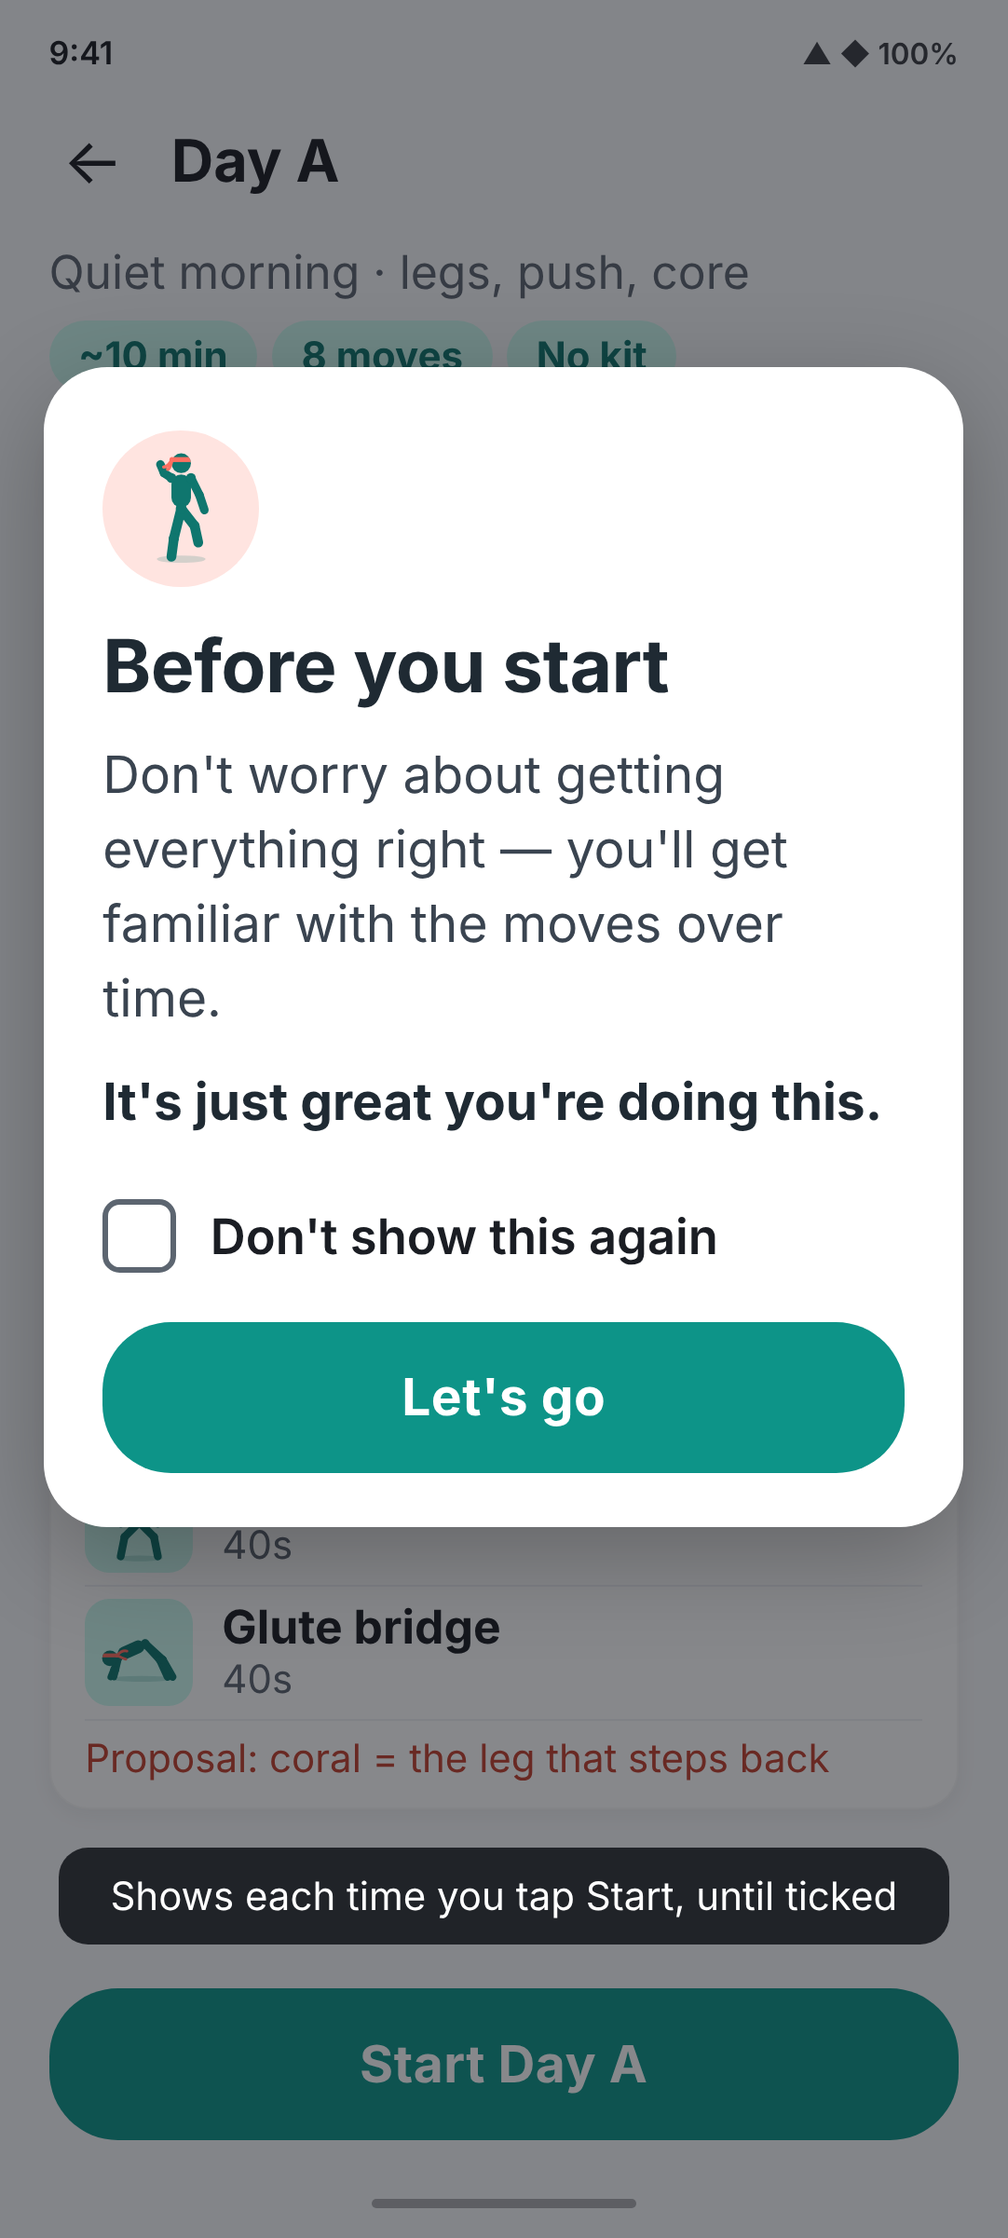
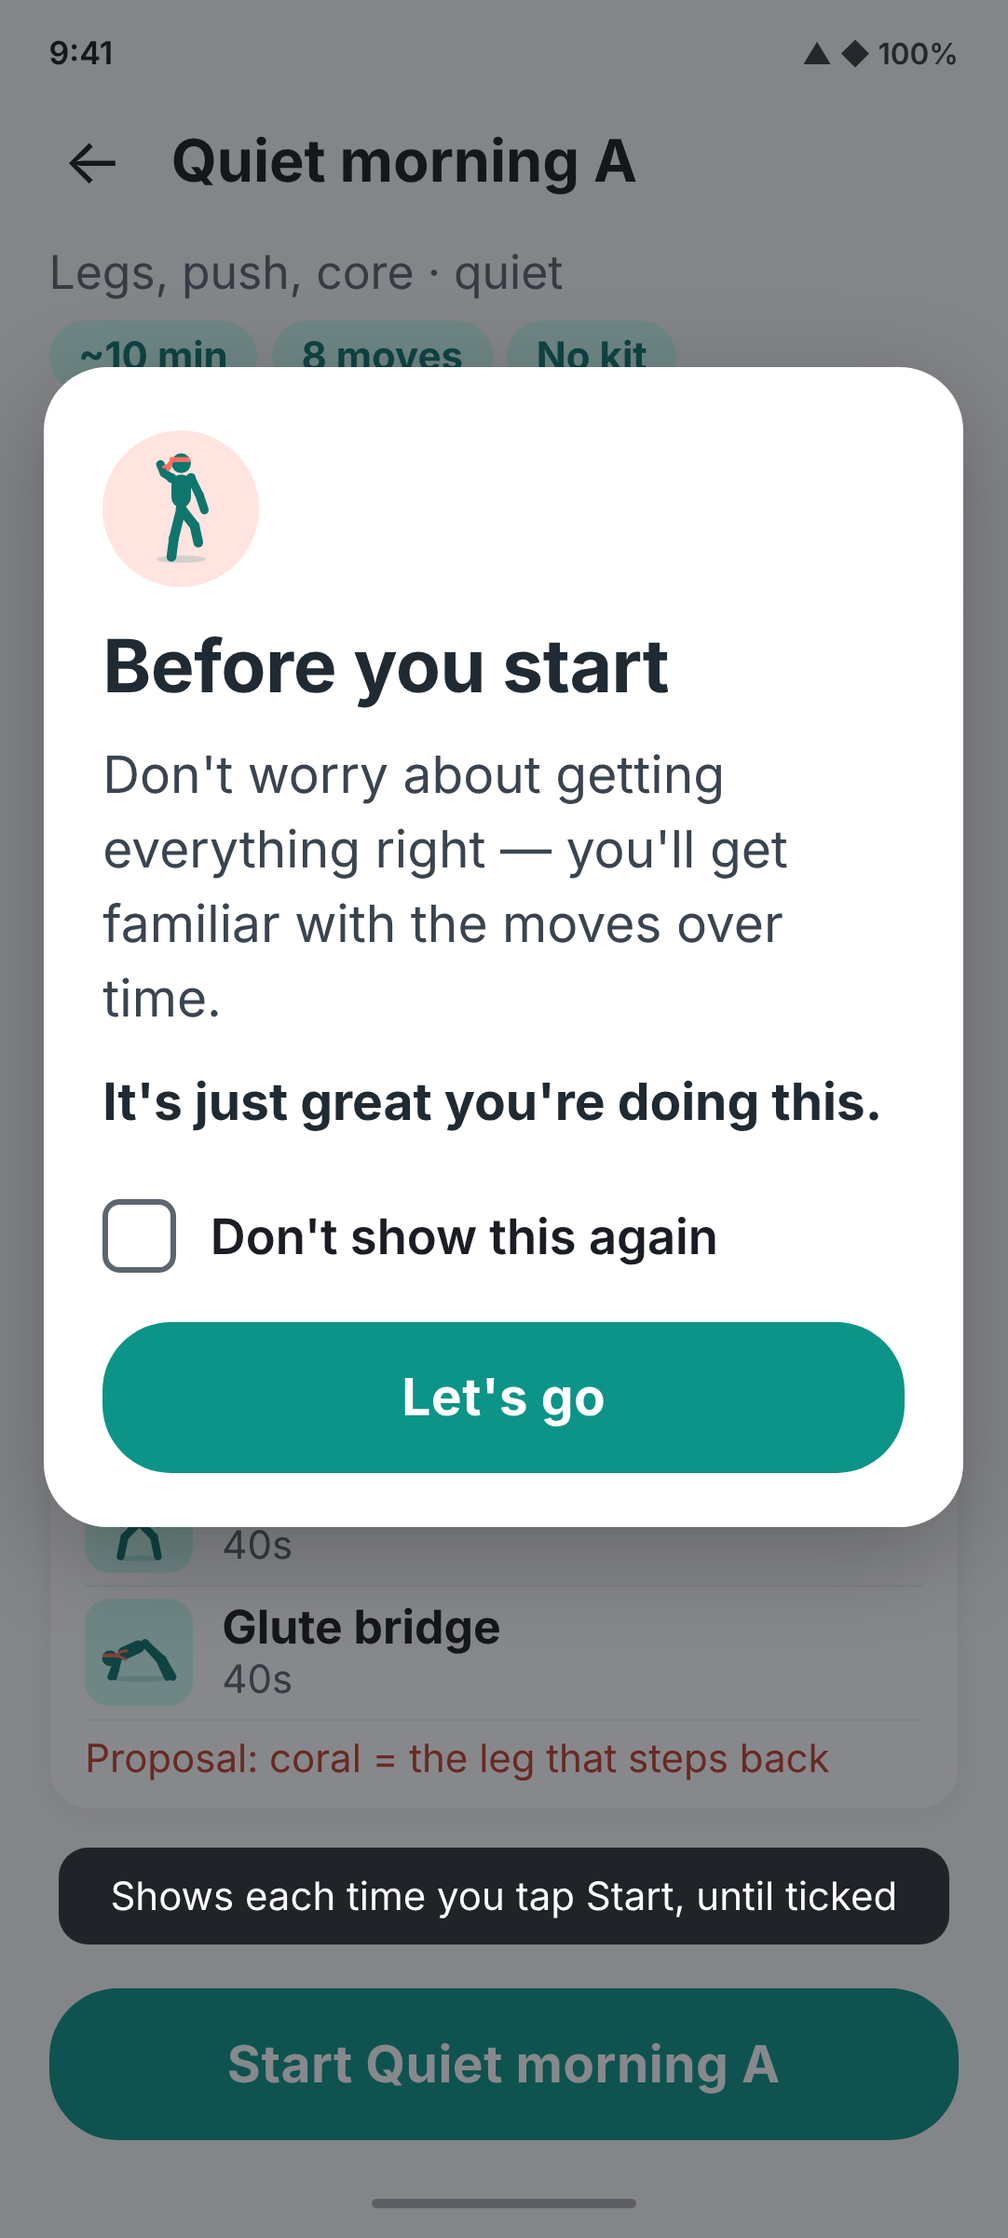
Day A mockups round 6: routine cards with A/B, recency sort
Home keeps the app's current pick-A-or-B pattern, now with one card per
routine sorted by most recent use (the returning-user state shows Lunch
on top). Day A/B is renamed to Quiet morning A/B, and the sort rule is
written up in the README.

diff --git a/docs/mockups/dayA-feedback/src/d-first-workout-card.html b/docs/mockups/dayA-feedback/src/d-first-workout-card.html
@@ -1,1 +1,1 @@
-<!doctype html><html><head><meta charset="utf-8"><link rel="stylesheet" href="../../src/shared.css"><link rel="stylesheet" href="r3.css"></head><body><div class="phone"><div class="status-bar"><span>9:41</span><span class="status-icons">▲ ◆ 100%</span></div><div class="topbar"><div class="icon-btn">←</div><div class="title">Day A</div></div><div class="content"><div><div class="sub2">Quiet morning · legs, push, core</div><div class="row" style="margin-top:8px;gap:6px"><span class="chip2">~10 min</span><span class="chip2">8 moves</span><span class="chip2">No kit</span></div></div><div class="card" style="padding:12px 14px"><div class="wu">Warm-up · 4 moves ▸<span>2 min · no rests</span></div></div><div class="card" style="padding:10px 14px"><div class="lbl2">Work · 40s each · 20s rest</div><div class="it "><div class="th"><img class="" src="fig/squat.svg"></div><div><div class="nm">Squat</div><div class="mt">40s</div></div></div><div class="it "><div class="th"><img class="" src="fig/pushup.svg"></div><div><div class="nm">Push-up</div><div class="mt">40s</div></div></div><div class="it hl"><div class="th"><img class="" src="fig/reverseLunge-coral-leg.svg"></div><div><div class="nm">Reverse lunge (right)<span class="side-tag">1</span></div><div class="mt">right leg steps back</div></div></div><div class="it "><div class="th"><img class="" src="fig/plank.svg"></div><div><div class="nm">Plank</div><div class="mt">40s</div></div></div><div class="it hl"><div class="th"><img class="mirror" src="fig/reverseLunge-coral-leg.svg"></div><div><div class="nm">Reverse lunge (left)<span class="side-tag">2</span></div><div class="mt">left leg steps back</div></div></div><div class="it "><div class="th"><img class="" src="fig/pushup.svg"></div><div><div class="nm">Push-up</div><div class="mt">40s</div></div></div><div class="it "><div class="th"><img class="" src="fig/squat.svg"></div><div><div class="nm">Squat</div><div class="mt">40s</div></div></div><div class="it "><div class="th"><img class="" src="fig/gluteBridge.svg"></div><div><div class="nm">Glute bridge</div><div class="mt">40s</div></div></div><div class="mt" style="margin-top:6px;color:#C2412F">Proposal: coral = the leg that steps back</div></div><div class="spacer"></div><div class="btn">Start Day A</div></div><div class="nav-bar"><div class="nav-pill"></div></div><div class="scrim"></div><div class="dialog"><div class="badge"><img src="fig/march.svg" style="width:50px;height:50px"></div><h2>Before you start</h2><p>Don't worry about getting everything right — you'll get familiar with the moves over time.</p><p><b style="color:#1F2A33">It's just great you're doing this.</b></p><div class="check"><div class="box"></div>Don't show this again</div><div class="btn">Let's go</div></div><div class="note">Shows each time you tap Start, until ticked</div></div></body></html>
+<!doctype html><html><head><meta charset="utf-8"><link rel="stylesheet" href="../../src/shared.css"><link rel="stylesheet" href="r3.css"></head><body><div class="phone"><div class="status-bar"><span>9:41</span><span class="status-icons">▲ ◆ 100%</span></div><div class="topbar"><div class="icon-btn">←</div><div class="title">Quiet morning A</div></div><div class="content"><div><div class="sub2">Legs, push, core · quiet</div><div class="row" style="margin-top:8px;gap:6px"><span class="chip2">~10 min</span><span class="chip2">8 moves</span><span class="chip2">No kit</span></div></div><div class="card" style="padding:12px 14px"><div class="wu">Warm-up · 4 moves ▸<span>2 min · no rests</span></div></div><div class="card" style="padding:10px 14px"><div class="lbl2">Work · 40s each · 20s rest</div><div class="it "><div class="th"><img class="" src="fig/squat.svg"></div><div><div class="nm">Squat</div><div class="mt">40s</div></div></div><div class="it "><div class="th"><img class="" src="fig/pushup.svg"></div><div><div class="nm">Push-up</div><div class="mt">40s</div></div></div><div class="it hl"><div class="th"><img class="" src="fig/reverseLunge-coral-leg.svg"></div><div><div class="nm">Reverse lunge (right)<span class="side-tag">1</span></div><div class="mt">right leg steps back</div></div></div><div class="it "><div class="th"><img class="" src="fig/plank.svg"></div><div><div class="nm">Plank</div><div class="mt">40s</div></div></div><div class="it hl"><div class="th"><img class="mirror" src="fig/reverseLunge-coral-leg.svg"></div><div><div class="nm">Reverse lunge (left)<span class="side-tag">2</span></div><div class="mt">left leg steps back</div></div></div><div class="it "><div class="th"><img class="" src="fig/pushup.svg"></div><div><div class="nm">Push-up</div><div class="mt">40s</div></div></div><div class="it "><div class="th"><img class="" src="fig/squat.svg"></div><div><div class="nm">Squat</div><div class="mt">40s</div></div></div><div class="it "><div class="th"><img class="" src="fig/gluteBridge.svg"></div><div><div class="nm">Glute bridge</div><div class="mt">40s</div></div></div><div class="mt" style="margin-top:6px;color:#C2412F">Proposal: coral = the leg that steps back</div></div><div class="spacer"></div><div class="btn">Start Quiet morning A</div></div><div class="nav-bar"><div class="nav-pill"></div></div><div class="scrim"></div><div class="dialog"><div class="badge"><img src="fig/march.svg" style="width:50px;height:50px"></div><h2>Before you start</h2><p>Don't worry about getting everything right — you'll get familiar with the moves over time.</p><p><b style="color:#1F2A33">It's just great you're doing this.</b></p><div class="check"><div class="box"></div>Don't show this again</div><div class="btn">Let's go</div></div><div class="note">Shows each time you tap Start, until ticked</div></div></body></html>

diff --git a/docs/mockups/dayA-feedback/src/a-dayA-list.html b/docs/mockups/dayA-feedback/src/a-dayA-list.html
@@ -1,1 +1,1 @@
-<!doctype html><html><head><meta charset="utf-8"><link rel="stylesheet" href="../../src/shared.css"><link rel="stylesheet" href="r3.css"></head><body><div class="phone"><div class="status-bar"><span>9:41</span><span class="status-icons">▲ ◆ 100%</span></div><div class="topbar"><div class="icon-btn">←</div><div class="title">Day A</div></div><div class="content"><div><div class="sub2">Quiet morning · legs, push, core</div><div class="row" style="margin-top:8px;gap:6px"><span class="chip2">~10 min</span><span class="chip2">8 moves</span><span class="chip2">No kit</span></div></div><div class="card" style="padding:12px 14px"><div class="wu">Warm-up · 4 moves ▸<span>2 min · no rests</span></div></div><div class="card" style="padding:10px 14px"><div class="lbl2">Work · 40s each · 20s rest</div><div class="it "><div class="th"><img class="" src="fig/squat.svg"></div><div><div class="nm">Squat</div><div class="mt">40s</div></div></div><div class="it "><div class="th"><img class="" src="fig/pushup.svg"></div><div><div class="nm">Push-up</div><div class="mt">40s</div></div></div><div class="it hl"><div class="th"><img class="" src="fig/reverseLunge-coral-leg.svg"></div><div><div class="nm">Reverse lunge (right)<span class="side-tag">1</span></div><div class="mt">right leg steps back</div></div></div><div class="it "><div class="th"><img class="" src="fig/plank.svg"></div><div><div class="nm">Plank</div><div class="mt">40s</div></div></div><div class="it hl"><div class="th"><img class="mirror" src="fig/reverseLunge-coral-leg.svg"></div><div><div class="nm">Reverse lunge (left)<span class="side-tag">2</span></div><div class="mt">left leg steps back</div></div></div><div class="it "><div class="th"><img class="" src="fig/pushup.svg"></div><div><div class="nm">Push-up</div><div class="mt">40s</div></div></div><div class="it "><div class="th"><img class="" src="fig/squat.svg"></div><div><div class="nm">Squat</div><div class="mt">40s</div></div></div><div class="it "><div class="th"><img class="" src="fig/gluteBridge.svg"></div><div><div class="nm">Glute bridge</div><div class="mt">40s</div></div></div><div class="mt" style="margin-top:6px;color:#C2412F">Proposal: coral = the leg that steps back</div></div><div class="spacer"></div><div class="btn">Start Day A</div></div><div class="nav-bar"><div class="nav-pill"></div></div></div></body></html>
+<!doctype html><html><head><meta charset="utf-8"><link rel="stylesheet" href="../../src/shared.css"><link rel="stylesheet" href="r3.css"></head><body><div class="phone"><div class="status-bar"><span>9:41</span><span class="status-icons">▲ ◆ 100%</span></div><div class="topbar"><div class="icon-btn">←</div><div class="title">Quiet morning A</div></div><div class="content"><div><div class="sub2">Legs, push, core · quiet</div><div class="row" style="margin-top:8px;gap:6px"><span class="chip2">~10 min</span><span class="chip2">8 moves</span><span class="chip2">No kit</span></div></div><div class="card" style="padding:12px 14px"><div class="wu">Warm-up · 4 moves ▸<span>2 min · no rests</span></div></div><div class="card" style="padding:10px 14px"><div class="lbl2">Work · 40s each · 20s rest</div><div class="it "><div class="th"><img class="" src="fig/squat.svg"></div><div><div class="nm">Squat</div><div class="mt">40s</div></div></div><div class="it "><div class="th"><img class="" src="fig/pushup.svg"></div><div><div class="nm">Push-up</div><div class="mt">40s</div></div></div><div class="it hl"><div class="th"><img class="" src="fig/reverseLunge-coral-leg.svg"></div><div><div class="nm">Reverse lunge (right)<span class="side-tag">1</span></div><div class="mt">right leg steps back</div></div></div><div class="it "><div class="th"><img class="" src="fig/plank.svg"></div><div><div class="nm">Plank</div><div class="mt">40s</div></div></div><div class="it hl"><div class="th"><img class="mirror" src="fig/reverseLunge-coral-leg.svg"></div><div><div class="nm">Reverse lunge (left)<span class="side-tag">2</span></div><div class="mt">left leg steps back</div></div></div><div class="it "><div class="th"><img class="" src="fig/pushup.svg"></div><div><div class="nm">Push-up</div><div class="mt">40s</div></div></div><div class="it "><div class="th"><img class="" src="fig/squat.svg"></div><div><div class="nm">Squat</div><div class="mt">40s</div></div></div><div class="it "><div class="th"><img class="" src="fig/gluteBridge.svg"></div><div><div class="nm">Glute bridge</div><div class="mt">40s</div></div></div><div class="mt" style="margin-top:6px;color:#C2412F">Proposal: coral = the leg that steps back</div></div><div class="spacer"></div><div class="btn">Start Quiet morning A</div></div><div class="nav-bar"><div class="nav-pill"></div></div></div></body></html>

diff --git a/docs/mockups/dayA-feedback/src/g-home-picker.html b/docs/mockups/dayA-feedback/src/g-home-picker.html
@@ -1,1 +1,1 @@
-<!doctype html><html><head><meta charset="utf-8"><link rel="stylesheet" href="../../src/shared.css"><link rel="stylesheet" href="r3.css"></head><body><div class="phone"><div class="status-bar"><span>9:41</span><span class="status-icons">▲ ◆ 100%</span></div><div class="content" style="padding-top:14px"><div class="greet">G'day! Pick a workout</div><div class="grp"><h3>Morning</h3><span>quiet, no jumping</span></div><div class="rt"><div class="th"><img src="fig/squat.svg"></div><div><div class="nm">Quiet morning A</div><div class="tg"><span>~10 min</span><span>legs · push · core</span></div></div><span class="chev">›</span></div><div class="rt"><div class="th"><img src="fig/splitSquat.svg"></div><div><div class="nm">Quiet morning B</div><div class="tg"><span>~10 min</span><span>single-leg · back · core</span></div></div><span class="chev">›</span></div><div class="grp"><h3>Lunch</h3><span>standing only · low sweat</span></div><div class="rt"><div class="th"><img src="fig/inclinePushup.svg"></div><div><div class="nm">Lunch A</div><div class="tg"><span>~10 min</span><span>work clothes friendly</span></div></div><span class="chev">›</span></div><div class="rt"><div class="th"><img src="fig/wallSit.svg"></div><div><div class="nm">Lunch B</div><div class="tg"><span>~10 min</span><span>work clothes friendly</span></div></div><span class="chev">›</span></div><div class="grp"><h3>After work</h3><span>more energy</span></div><div class="rt"><div class="th"><img src="fig/pushup.svg"></div><div><div class="nm">After work A</div><div class="tg"><span>~15 min</span><span>proper sweat</span></div></div><span class="chev">›</span></div><div class="rt"><div class="th"><img src="fig/sidePlank.svg"></div><div><div class="nm">After work B</div><div class="tg"><span>~15 min</span><span>proper sweat</span></div></div><span class="chev">›</span></div></div><div class="nav-bar"><div class="nav-pill"></div></div></div></body></html>
+<!doctype html><html><head><meta charset="utf-8"><link rel="stylesheet" href="../../src/shared.css"><link rel="stylesheet" href="r3.css"></head><body><div class="phone"><div class="status-bar"><span>9:41</span><span class="status-icons">▲ ◆ 100%</span></div><div class="content" style="padding-top:12px;gap:10px!important"><div class="greet">G'day! Ready for a quick one?</div><div class="rc top"><div class="rc-h"><span class="nm">Lunch</span><span class="usual">Your usual</span></div><div class="rc-t"><span>~10 min</span><span>standing only</span><span>low sweat</span></div><div class="opt"><div class="th"><img src="fig/inclinePushup.svg"></div><div><div class="l">A</div><div class="f">squat · desk push-up · lunges</div></div><span class="last">last done<br>yesterday</span><span class="chev">›</span></div><div class="opt"><div class="th"><img src="fig/wallSit.svg"></div><div><div class="l">B</div><div class="f">split squats · wall sit</div></div><span class="sug">Up next</span><span class="chev">›</span></div></div><div class="rc"><div class="rc-h"><span class="nm">Quiet morning</span></div><div class="rc-t"><span>~10 min</span><span>no jumping</span></div><div class="opt"><div class="th"><img src="fig/squat.svg"></div><div><div class="l">A</div><div class="f">legs · push · core</div></div><span class="last">3 days ago</span><span class="chev">›</span></div><div class="opt"><div class="th"><img src="fig/splitSquat.svg"></div><div><div class="l">B</div><div class="f">single-leg · back · core</div></div><span class="chev">›</span></div></div><div class="rc"><div class="rc-h"><span class="nm">After work</span></div><div class="rc-t"><span>~15 min</span><span>proper sweat</span></div><div class="opt"><div class="th"><img src="fig/pushup.svg"></div><div><div class="l">A</div><div class="f">lunges · push-ups · core</div></div><span class="chev">›</span></div><div class="opt"><div class="th"><img src="fig/sidePlank.svg"></div><div><div class="l">B</div><div class="f">side planks · back · core</div></div><span class="chev">›</span></div></div><div class="inset2"><b>Sorting:</b> most recent routine first. On first launch the order is Quiet morning, Lunch, After work.</div></div><div class="nav-bar"><div class="nav-pill"></div></div></div></body></html>

diff --git a/docs/mockups/dayA-feedback/src/f-workout-done.html b/docs/mockups/dayA-feedback/src/f-workout-done.html
@@ -1,1 +1,1 @@
-<!doctype html><html><head><meta charset="utf-8"><link rel="stylesheet" href="../../src/shared.css"><link rel="stylesheet" href="r3.css"></head><body><div class="phone"><div class="status-bar"><span>9:41</span><span class="status-icons">▲ ◆ 100%</span></div><div class="topbar"><div class="icon-btn">✕</div><div class="spacer"></div></div><div class="content"><div class="done-hero"><div class="circ"><img src="fig/armCircles.svg"></div><div class="done-big">Nice one!</div><div class="done-sub">Quiet morning A done.<br>Great to see you moving.</div></div><div class="stats"><span class="stat">10 min</span><span class="stat">8 moves</span><span class="stat">4 warm-ups</span></div><div class="spacer"></div><div class="sugg"><div class="q">Got more time?</div><div class="t">Why not start <b>Quiet morning B</b>? About 10 more minutes.</div><div class="btn">Start Quiet morning B</div></div><div class="btn2">Done for today</div><div class="anno">Finishing B suggests A instead</div></div><div class="nav-bar"><div class="nav-pill"></div></div></div></body></html>
+<!doctype html><html><head><meta charset="utf-8"><link rel="stylesheet" href="../../src/shared.css"><link rel="stylesheet" href="r3.css"></head><body><div class="phone"><div class="status-bar"><span>9:41</span><span class="status-icons">▲ ◆ 100%</span></div><div class="topbar"><div class="icon-btn">✕</div><div class="spacer"></div></div><div class="content"><div class="done-hero"><div class="circ"><img src="fig/armCircles.svg"></div><div class="done-big">Nice one!</div><div class="done-sub">Quiet morning A done.<br>Great to see you moving.</div></div><div class="stats"><span class="stat">10 min</span><span class="stat">8 moves</span><span class="stat">4 warm-ups</span></div><div class="spacer"></div><div class="sugg"><div class="q">Got more time?</div><div class="t">Why not start <b>Quiet morning B</b>? About 10 more minutes.</div><div class="btn">Start Quiet morning B</div></div><div class="btn2">Done for today</div><div class="anno">Finishing B suggests A. Same for Lunch and After work</div></div><div class="nav-bar"><div class="nav-pill"></div></div></div></body></html>

diff --git a/docs/mockups/dayA-feedback/src/r3.css b/docs/mockups/dayA-feedback/src/r3.css
@@ -93,3 +93,20 @@
 .rt .tg{display:flex;gap:6px;margin-top:3px;flex-wrap:wrap}
 .rt .tg span{font-size:16px;font-weight:600;color:var(--accent-dark);background:var(--accent-soft);padding:1px 8px;border-radius:999px}
 .rt .chev{margin-left:auto;font-size:26px;color:var(--text-3)}
+/* round 6: routine cards with A/B choice */
+.rc{background:#fff;border-radius:20px;padding:12px 14px;box-shadow:var(--shadow);flex-shrink:0}
+.rc.top{border:2.5px solid #FF9E92;background:#FFFBFA}
+.rc-h{display:flex;align-items:center;gap:8px;flex-wrap:wrap}
+.rc-h .nm{font-size:24px;font-weight:900;color:var(--navy)}
+.usual{background:var(--coral);color:#fff;font-size:16px;font-weight:800;padding:2px 10px;border-radius:999px}
+.rc-t{display:flex;gap:6px;flex-wrap:wrap;margin:4px 0 8px}
+.rc-t span{font-size:16px;font-weight:600;color:var(--accent-dark);background:var(--accent-soft);padding:1px 8px;border-radius:999px}
+.opt{display:flex;align-items:center;gap:10px;border-top:1px solid #EEF1F5;padding:7px 0}
+.opt .th{width:44px;height:44px;border-radius:10px;background:var(--accent-soft);display:flex;align-items:center;justify-content:center;flex-shrink:0}
+.opt .th img{width:40px;height:40px}
+.opt .l{font-size:21px;font-weight:800;color:var(--navy)}
+.opt .f{font-size:16px;color:var(--text-2)}
+.opt .last{margin-left:auto;font-size:16px;color:var(--text-2);text-align:right}
+.opt .sug{margin-left:auto;font-size:16px;font-weight:800;color:var(--coral-dk)}
+.opt .chev{font-size:24px;color:var(--text-3)}
+.inset2{border:2px dashed #AEB6BF;border-radius:14px;padding:8px 12px;font-size:16px;color:var(--text-2);line-height:1.3;background:#fff}

diff --git a/docs/mockups/dayA-feedback/README.md b/docs/mockups/dayA-feedback/README.md
@@ -26,6 +26,21 @@ Round 5: the lunge figure has hands on hips with elbows clearly out (both sides)
 
 `src/build_figs.py` regenerates the mockup figure copies in `src/fig/`.
 
+Round 6: "Day A/B" is renamed to "Quiet morning A/B". Home (g) keeps the current app's pattern:
+each routine (Quiet morning, Lunch, After work) is a card with an A and a B option you pick
+directly. The done screen (f) always suggests the other option of the same routine
+(A suggests B, B suggests A), for all three routines.
+
+## Home sort rule (proposal)
+
+- Routines are sorted by the most recent completed workout, newest first.
+- Ties (same day, or never done) are broken by how many times each routine has been completed, most first.
+- If there is still a tie, fall back to the default order: Quiet morning, Lunch, After work.
+- The top routine gets a "Your usual" tag once it has been done at least 3 times; otherwise no tag.
+- Inside a routine, the option not done last time is marked "Up next". The last one shows "last done …".
+- First launch (nothing done yet) uses the default order with no tags.
+- Everything is stored on the phone (a timestamp and a count per routine option); nothing leaves the device.
+
 ## Draft routines (not in the app yet)
 
 Built only from moves already in `assets/content.json`. Every routine uses the usual 2 min warm-up
